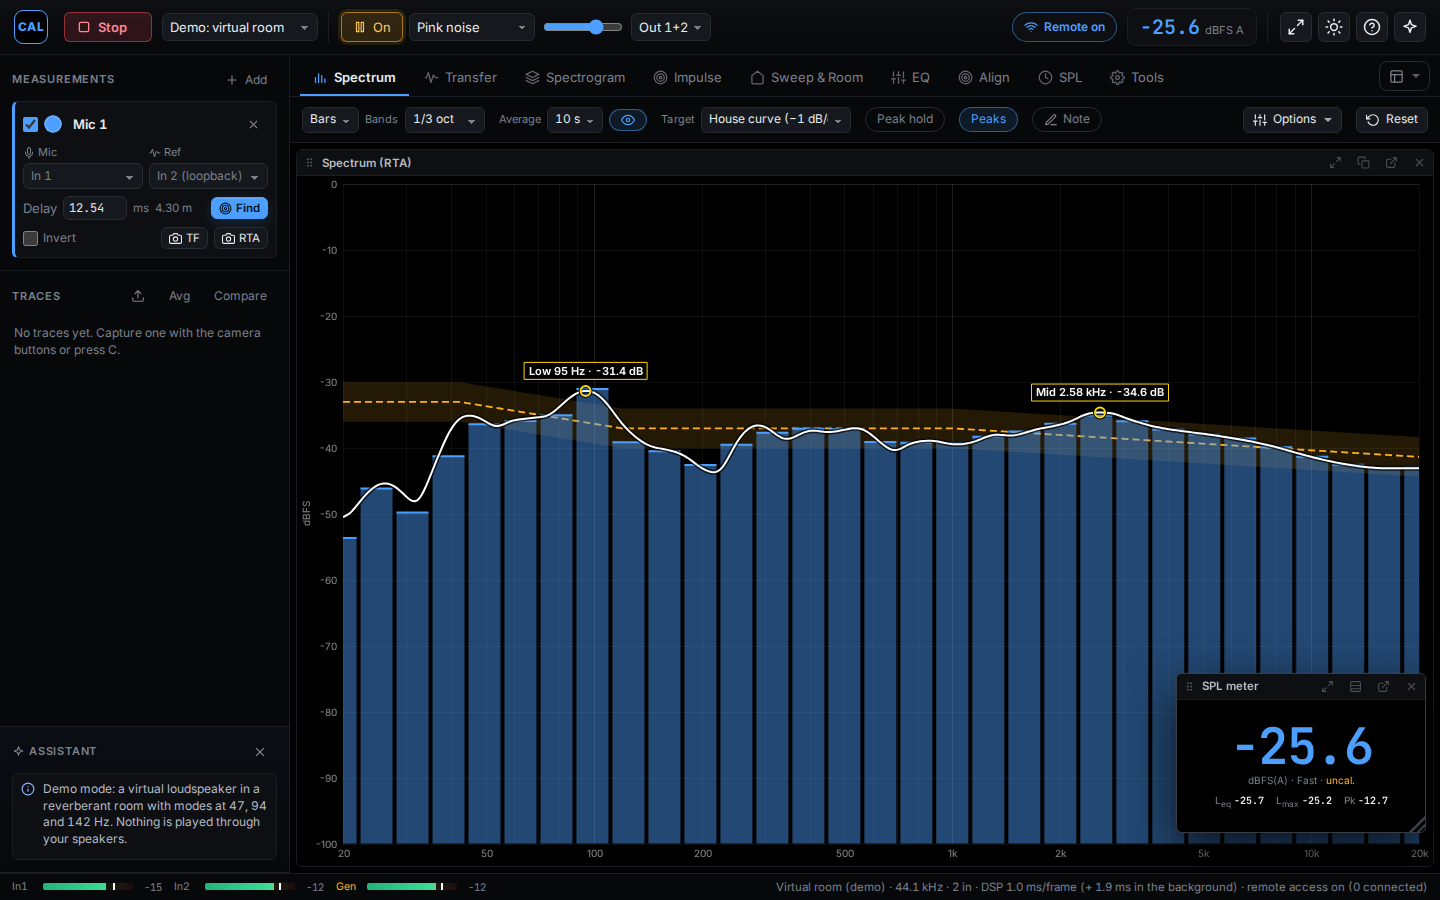
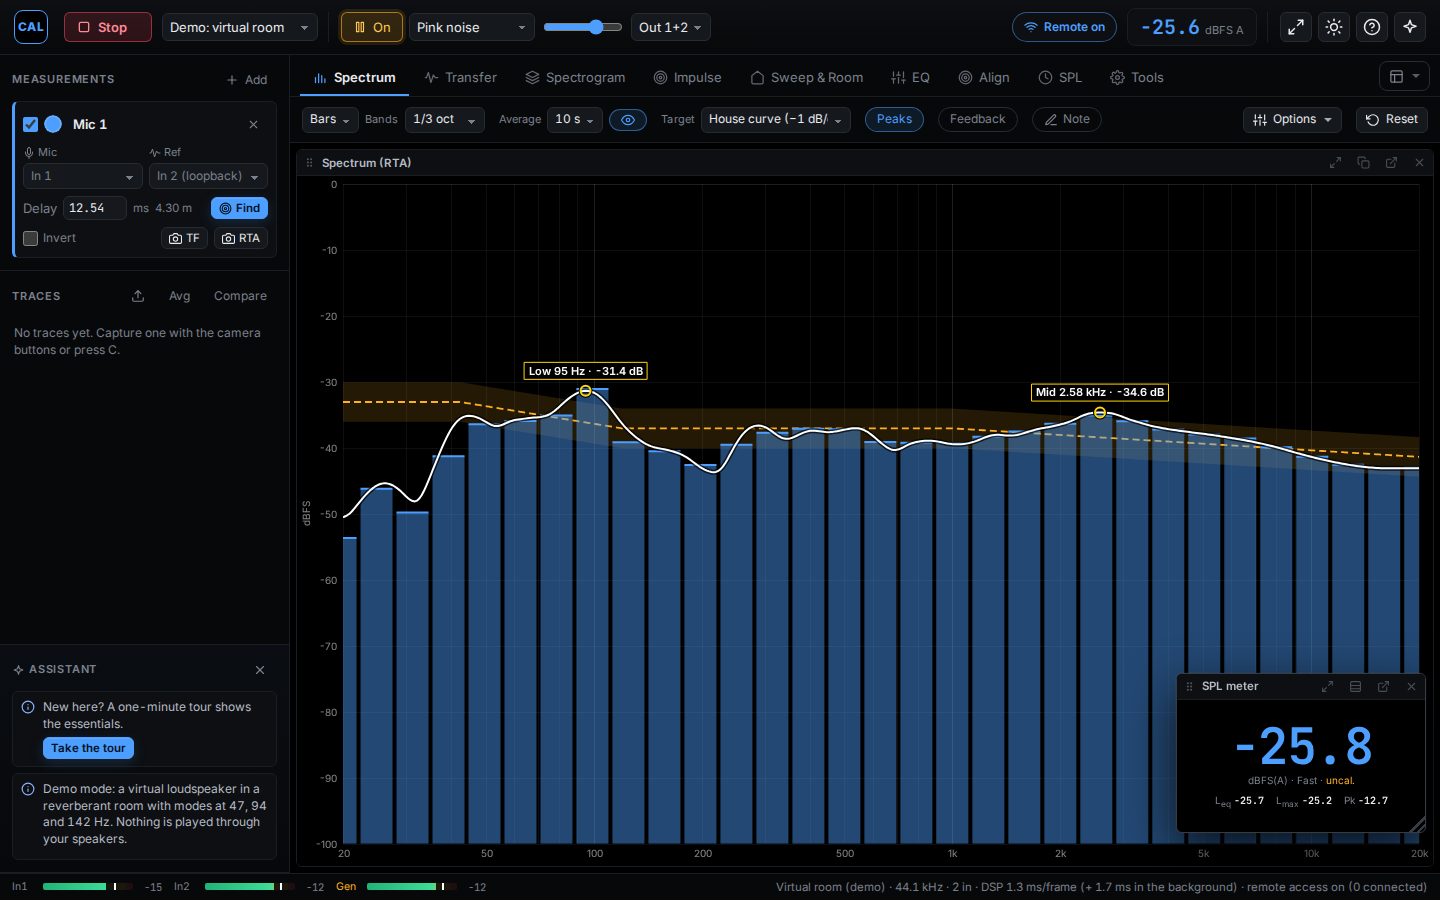
2.0.0-rc.2: user guide, release notes and README for themes, tour, updates, feedback finder and in-use meters; new screenshots; tests wait for remote trace sync and the on-demand report
Claude-Session: https://claude.ai/code/session_01DUSAq299NMiKPL5ASP4zkU

diff --git a/docs/user-guide.md b/docs/user-guide.md
@@ -120,7 +120,7 @@ The **workspace** button sits at the right end of the tab row. See [Workspaces](
 
 On a phone, the sidebar opens from the menu button in the top-left corner.
 
-**Status bar** along the bottom. It shows the input and generator level meters, the audio device, the sample rate, and whether battery saver or remote access is on.
+**Status bar** along the bottom. It shows level meters for the inputs in use (measurement mics and references, the SPL meter's input) and for the generator while it plays or serves as the reference, then the audio device, the sample rate, and whether battery saver or remote access is on.
 
 ## 4. Try the demo room
 
@@ -129,6 +129,7 @@ The demo room is a virtual loudspeaker in a reverberant room. It behaves like a 
 1. In the welcome window, select **Explore with the demo room**.
 2. Select **Start demo**.
 3. The app starts pink noise, finds the delay, and opens the Transfer tab.
+4. The **Assistant** offers a one-minute **tour** of the essentials: select **Take the tour**. You can also start it from **Help** at any time. Use **Next** and **Back** (or the arrow keys), and Escape to stop.
 
 Every feature in this guide works in the demo room. To open the welcome window again later, select the setup assistant button at the right end of the top bar.
 
@@ -226,7 +227,8 @@ The average curve is a smooth line showing the long-term tonal balance. It is us
 
 ### Other displays
 
-- **Peak hold** (P) keeps the highest level at each frequency.
+- **Peak hold** (P, or under **Options → Display**) keeps the highest level at each frequency.
+- **Feedback** (in the toolbar) listens for feedback: narrow peaks that grow or ring well above the rest of the spectrum. A warning names the frequency, a red marker shows it, and the strip above the graph suggests a notch filter (frequency, Q and depth). **Add notch to EQ** puts it on the EQ tab, where you can copy it to your processor.
 - The **Spectrogram** tab (press 3) shows the spectrum over time. Frequency runs up the side, time runs from left to right with the newest data on the right, and colour shows level. **Layout** turns the picture the other way.
 - The **Impulse** tab (press 4) shows the impulse response. **Set delay to peak** sets the delay from the strongest arrival.
 
@@ -416,6 +418,8 @@ The app uses the music itself as the reference, so the transfer function works w
 - Each panel's title bar has buttons to float the panel over the view, open it in its own window (for example on a second monitor), or enlarge it.
 - **Options**, then **Reset layout**, restores the default arrangement.
 
+**Themes** (in Tools, under **Display & performance**): choose *Night* (OLED black) or *Day* (for sunlight), or a ready-made theme: *High contrast*, *Stage red* (keeps your eyes adjusted in a dark venue), *Colour-blind safe* (trace colours that people with colour blindness tell apart), *Midnight blue* or *Paper*. **New theme…** opens an editor: pick the background, panel, text, accent, graph and grid colours and, if you like, your own trace colours. Changes show at once. **Export** saves a theme as a file to share; **Import…** adds one. T still switches between Night and Day.
+
 **Display & performance** (in Tools):
 
 ![The Display & performance card, with graph quality, battery saver, bass resolution and analysis location.](guide/performance.png)
@@ -425,7 +429,9 @@ The app uses the music itself as the reference, so the transfer function works w
 - **Analysis:** *Background thread* (the default) computes the spectrum and transfer function beside the drawing, so the display stays smooth. *Main thread* works as in earlier versions.
 - **Bass resolution:** *High* or *Maximum* shows more detail in the bass, but the bass reacts more slowly.
 
-**Reset settings** (in Tools, under **Data**):
+**About & updates** (in Tools, under **About & data**): the version, and in the desktop app the update status. The desktop app checks for new versions shortly after it starts and every six hours, downloads them in the background, and shows **Restart to update** in the top bar when one is ready. The portable Windows version does not update itself. On macOS, updates need a signed build. **What's new** lists the highlights of this version; it also opens once by itself after an update to a new major version.
+
+**Reset settings** (in Tools, under **About & data**):
 
 - **Reset analysis & display to** returns the analysis and display settings to the *App defaults* or to a *Classic dual-FFT* setup. Your microphones, calibrations, inputs, remote access and workspaces stay as they are.
 - **Reset all settings** returns everything to the first start, including microphones and calibrations.

diff --git a/docs/beta-notes.md b/docs/beta-notes.md
@@ -4,12 +4,12 @@
 
 | System | File |
 | --- | --- |
-| **Windows 10/11** – installer | `CAL-Audio-Analyzer-2.0.0-rc.1-win-x64.exe` |
-| **Windows 10/11** – portable (no install) | `CAL-Audio-Analyzer-2.0.0-rc.1-portable.exe` |
-| **macOS** – Apple Silicon (M1–M4) | `CAL-Audio-Analyzer-2.0.0-rc.1-mac-arm64.dmg` |
-| **macOS** – Intel | `CAL-Audio-Analyzer-2.0.0-rc.1-mac-x64.dmg` |
-| **Linux** – x64 | `CAL-Audio-Analyzer-2.0.0-rc.1-linux-x86_64.AppImage` |
-| **Linux** – ARM64 (e.g. Raspberry Pi 5) | `CAL-Audio-Analyzer-2.0.0-rc.1-linux-arm64.AppImage` |
+| **Windows 10/11** – installer | `CAL-Audio-Analyzer-2.0.0-rc.2-win-x64.exe` |
+| **Windows 10/11** – portable (no install) | `CAL-Audio-Analyzer-2.0.0-rc.2-portable.exe` |
+| **macOS** – Apple Silicon (M1–M4) | `CAL-Audio-Analyzer-2.0.0-rc.2-mac-arm64.dmg` |
+| **macOS** – Intel | `CAL-Audio-Analyzer-2.0.0-rc.2-mac-x64.dmg` |
+| **Linux** – x64 | `CAL-Audio-Analyzer-2.0.0-rc.2-linux-x86_64.AppImage` |
+| **Linux** – ARM64 (e.g. Raspberry Pi 5) | `CAL-Audio-Analyzer-2.0.0-rc.2-linux-arm64.AppImage` |
 
 The builds are not code-signed yet:
 
@@ -26,6 +26,7 @@ On first launch, choose **Explore with the demo room** to try every feature with
 ### Measure
 - **Group delay:** *Transfer → Options → Panels → Group delay* shows how late each frequency arrives, in milliseconds (a sub behind the mains, a crossover's delay), weighted by energy and coherence so dips and noise don't hide the real delay.
 - **Measure at several positions:** *Sweep & Room → Positions* runs one sweep per mic position, tells you where to move the mic in between, and saves the spatial average as a trace for the EQ tab. It works from a phone or tablet too.
+- **Feedback finder:** *Feedback* on the Spectrum toolbar listens for narrow peaks that grow or ring, warns with the frequency, and suggests a notch filter (frequency, Q, depth) that one click puts on the EQ tab.
 - **Room diagnosis:** after a sweep, *Diagnosis* separates room modes, speaker-boundary interference, reflections and modal nulls, says how sure it is and what to do, and marks them on the graphs.
 - **Sweeps on the Spectrum:** saved sweeps also show on the Spectrum, levelled to the live curve.
 - **Reference switch:** *Tools → Setup → Reference signal* switches every measurement between the generator and a loopback input.
@@ -43,8 +44,12 @@ On first launch, choose **Explore with the demo room** to try every feature with
 - **Lighter start:** the report and the QR code load when first used; graphs cache their grid and labels.
 
 ### Look and layout
+- **Themes:** besides Night and Day, ready-made *High contrast*, *Stage red*, *Colour-blind safe*, *Midnight blue* and *Paper* themes, and your own from a theme editor (background, panels, text, accent, graph and grid colours, and trace colours), with a live preview. Themes can be exported and shared.
+- **Guided tour:** a one-minute walk through the essentials, offered by the Assistant at the first start and always in Help.
+- **Automatic updates (desktop app):** new versions download in the background; *Restart to update* appears in the top bar when one is ready. *What's new* shows the highlights after an update to a new major version. The version and update status are under *Tools → About & data*.
+- **Level meters for what's in use:** the status bar shows meters only for the inputs the app uses, and the generator while it plays or serves as the reference.
 - **Colours:** choose the Spectrum's trace and fill colours and the fill opacity.
 - **SPL tab:** the level readout, history and noise log are panels you can float or detach (for example the big readout on a second screen), and the numbers scale with their panel.
-- **Tools:** split into sections (Setup, Session & report, Remote access, Display & performance, Calculators, Data & reset); the room-mode calculator is under *Calculators*.
+- **Tools:** split into sections (Setup, Session & report, Remote access, Display & performance, Calculators, About & data); the room-mode calculator is under *Calculators*.
 - **Tidier menus:** the Spectrum options are grouped into Analysis, Display, Average curve and Overlays; empty graphs say what to do; the Assistant can be hidden.
 - **Fixes:** level meters showed warning colours at low levels; several toolbar, axis and dialog details.

diff --git a/docs/release-notes.md b/docs/release-notes.md
@@ -26,6 +26,7 @@ On first launch, choose **Explore with the demo room** to try every feature with
 ### Measure
 - **Group delay:** *Transfer → Options → Panels → Group delay* shows how late each frequency arrives, in milliseconds (a sub behind the mains, a crossover's delay), weighted by energy and coherence so dips and noise don't hide the real delay.
 - **Measure at several positions:** *Sweep & Room → Positions* runs one sweep per mic position, tells you where to move the mic in between, and saves the spatial average as a trace for the EQ tab. It works from a phone or tablet too.
+- **Feedback finder:** *Feedback* on the Spectrum toolbar listens for narrow peaks that grow or ring, warns with the frequency, and suggests a notch filter (frequency, Q, depth) that one click puts on the EQ tab.
 - **Room diagnosis:** after a sweep, *Diagnosis* separates room modes, speaker-boundary interference, reflections and modal nulls, says how sure it is and what to do, and marks them on the graphs.
 - **Sweeps on the Spectrum:** saved sweeps also show on the Spectrum, levelled to the live curve.
 - **Reference switch:** *Tools → Setup → Reference signal* switches every measurement between the generator and a loopback input.
@@ -43,9 +44,13 @@ On first launch, choose **Explore with the demo room** to try every feature with
 - **Lighter start:** the report and the QR code load when first used; graphs cache their grid and labels.
 
 ### Look and layout
+- **Themes:** besides Night and Day, ready-made *High contrast*, *Stage red*, *Colour-blind safe*, *Midnight blue* and *Paper* themes, and your own from a theme editor (background, panels, text, accent, graph and grid colours, and trace colours), with a live preview. Themes can be exported and shared.
+- **Guided tour:** a one-minute walk through the essentials, offered by the Assistant at the first start and always in Help.
+- **Automatic updates (desktop app):** new versions download in the background; *Restart to update* appears in the top bar when one is ready. *What's new* shows the highlights after an update to a new major version. The version and update status are under *Tools → About & data*.
+- **Level meters for what's in use:** the status bar shows meters only for the inputs the app uses, and the generator while it plays or serves as the reference.
 - **Colours:** choose the Spectrum's trace and fill colours and the fill opacity.
 - **SPL tab:** the level readout, history and noise log are panels you can float or detach (for example the big readout on a second screen), and the numbers scale with their panel.
-- **Tools:** split into sections (Setup, Session & report, Remote access, Display & performance, Calculators, Data & reset); the room-mode calculator is under *Calculators*.
+- **Tools:** split into sections (Setup, Session & report, Remote access, Display & performance, Calculators, About & data); the room-mode calculator is under *Calculators*.
 - **Tidier menus:** the Spectrum options are grouped into Analysis, Display, Average curve and Overlays; empty graphs say what to do; the Assistant can be hidden.
 - **Fixes:** level meters showed warning colours at low levels; several toolbar, axis and dialog details.
 

diff --git a/README.md b/README.md
@@ -35,6 +35,9 @@ New to the app? The **[user guide](docs/user-guide.md)** walks you through insta
 | **Guided spatial average** | One sweep per mic position (3–8), with a prompt between positions; the power average is saved as a trace for the EQ tab. |
 | **Before / after compare** | Two traces on one graph with their difference and a score against the target (RMS deviation, share within tolerance, worst point); optionally a page of the report. |
 | **Notes on graphs** | Labelled flags on the Spectrum, Transfer and sweep graphs, saved with the session, shared with remote devices and listed in the report. |
+| **Feedback finder** | Narrow peaks that grow or ring are flagged on the Spectrum with a suggested notch (frequency, Q, depth) that goes to the EQ tab in one click. |
+| **Themes** | Night and Day plus High contrast, Stage red, Colour-blind safe, Midnight blue and Paper, and your own from a theme editor with live preview; export and import themes. |
+| **Guided tour & updates** | A one-minute tour of the essentials; the desktop app updates itself from the GitHub releases and shows what's new. |
 | **Smooth, fast metering** | Spectrum, transfer function and impulse response computed in a background thread; level meters with proper ballistics at the screen's rate; the spectrum glides between updates (25 or 50 spectra per second). |
 | **Waterfall** | Cumulative spectral decay from the sweep in 3-D: room modes (15–500 Hz over 400 ms) or full range (100 Hz–20 kHz over 20 ms). Ridges that reach far back are resonances that keep ringing. |
 | **Noise log** | Log Leq and Lmax per interval (1 s to 15 min, exact to the sample) with the third-octave spectrum from IEC 61260-style band filters, for hours. The weighting and input are locked while logging. Set a limit on the rolling Leq (e.g. 100 dB LAeq over 15 minutes): the level readout turns amber near it and red above it, with a warning. Export as CSV; the log is kept in sessions and reports. |
